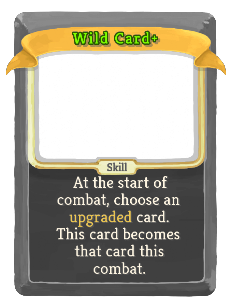
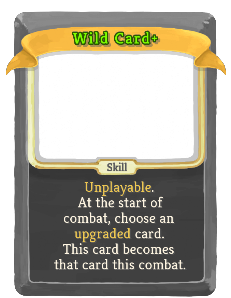
wiaojdoifjd

Changed region(s): [[0.2121, 0.5738, 0.8182, 0.9362]]

diff --git a/vexMod/index.html b/vexMod/index.html
@@ -864,7 +864,9 @@ Damage cycles from 0 to 50 quickly (slowly).</td>
     <td>Rare</td>
     <td>Skill</td>
     <td></td>
-    <td>At the start of combat, choose a (an upgraded) card. This card becomes that card this combat.</td>
+    <td>Unplayable.
+At the start of combat, choose a (an upgraded) card.
+This card becomes that card this combat.</td>
   </tr>
   
   <tr>
@@ -1947,15 +1949,6 @@ Whenever you play a card, put it on the bottom of your draw pile.</td>
     <td></td>
     <td>Whenever you add an unupgraded card to your deck, <span class="color-y">Upgrade</span> it and lose <span class="color-b">2</span> Max HP.</td>
     <td>Sand drains from it endlessly.</td>
-  </tr>
-  
-  <tr>
-    <td><a href="relics/popup/ChompingNoodles.png">Chomping Noodles</a></td>
-    <td><img src="relics/ChompingNoodles.png" width="128" height="128"><a href="relics/popup/ChompingNoodles.png"><img src="relics/small-popup/ChompingNoodles.png" class="popup"></a></td>
-    <td>Shop</td>
-    <td></td>
-    <td>Whenever you enter a <span class="color-y">?</span> room, raise your Max HP by <span class="color-b">3</span> and lose <span class="color-b">3</span> HP.</td>
-    <td>These noodles bite back.</td>
   </tr>
   
   <tr>

diff --git a/vexMod/relics.html b/vexMod/relics.html
@@ -1009,15 +1009,6 @@ Whenever you play a card, put it on the bottom of your draw pile.</td>
   </tr>
   
   <tr>
-    <td><a href="relics/popup/ChompingNoodles.png">Chomping Noodles</a></td>
-    <td><img src="relics/ChompingNoodles.png" width="128" height="128"><a href="relics/popup/ChompingNoodles.png"><img src="relics/small-popup/ChompingNoodles.png" class="popup"></a></td>
-    <td>Shop</td>
-    <td></td>
-    <td>Whenever you enter a <span class="color-y">?</span> room, raise your Max HP by <span class="color-b">3</span> and lose <span class="color-b">3</span> HP.</td>
-    <td>These noodles bite back.</td>
-  </tr>
-  
-  <tr>
     <td><a href="relics/popup/Cooldron.png">Cooldron</a></td>
     <td><img src="relics/Cooldron.png" width="128" height="128"><a href="relics/popup/Cooldron.png"><img src="relics/small-popup/Cooldron.png" class="popup"></a></td>
     <td>Shop</td>

diff --git a/vexMod/cards.html b/vexMod/cards.html
@@ -863,7 +863,9 @@ Damage cycles from 0 to 50 quickly (slowly).</td>
     <td>Rare</td>
     <td>Skill</td>
     <td></td>
-    <td>At the start of combat, choose a (an upgraded) card. This card becomes that card this combat.</td>
+    <td>Unplayable.
+At the start of combat, choose a (an upgraded) card.
+This card becomes that card this combat.</td>
   </tr>
   
   <tr>

diff --git a/vexMod/index.md b/vexMod/index.md
@@ -76,7 +76,7 @@
 | Spire Strike | ![](small-card-images/SpireStrike.png) | ![](small-card-images/SpireStrikePlus.png) | Rare | Attack | 0 | Costs 1 more for each Act cleared. Deal damage equal to your floor number. Exhaust. (not Exhaust.) |
 | Very Week Card | ![](small-card-images/VeryWeekCard.png) | ![](small-card-images/VeryWeekCardPlus.png) | Rare | Skill | 1 | Effect varies based on day of the week. Exhaust. (not Exhaust.) |
 | Well-Timed Strike | ![](small-card-images/Well-TimedStrike.png) | ![](small-card-images/Well-TimedStrikePlus.png) | Rare | Attack | 3 | Deal 0 damage. Damage cycles from 0 to 50 quickly (slowly). |
-| Wild Card | ![](small-card-images/WildCard.png) | ![](small-card-images/WildCardPlus.png) | Rare | Skill |  | At the start of combat, choose a (an upgraded) card. This card becomes that card this combat. |
+| Wild Card | ![](small-card-images/WildCard.png) | ![](small-card-images/WildCardPlus.png) | Rare | Skill |  | Unplayable. At the start of combat, choose a (an upgraded) card. This card becomes that card this combat. |
 | Fear | ![](small-card-images/Fear.png) | ![]() | Curse | Curse | 1 | Ethereal. At the end of your turn, gain 1 Vulnerable. |
 | Gorgon's Gaze | ![](small-card-images/GorgonsGaze.png) | ![]() | Curse | Curse |  | Unplayable. At the end of your turn, Exhaust all other cards in your hand. |
 | Greed | ![](small-card-images/Greed.png) | ![]() | Curse | Curse |  | Unplayable. At the end of your turn, lose 6 Gold. |
@@ -216,7 +216,6 @@
 | ![](relics/TreasureMap.png) | Adventure Map | Shop |  | ALL #y? rooms contain events. | The real treasure was the friends we made along the way. |
 | ![](relics/BerrySword.png) | Berry Sword | Shop |  | Upon pickup, raise your Max HP by #b8. The first card you play each combat is removed from your deck. | Tiny bites of this sword invigorate you. |
 | ![](relics/BrokenBowl.png) | Broken Bowl | Shop |  | Whenever you add an unupgraded card to your deck, #yUpgrade it and lose #b2 Max HP. | Sand drains from it endlessly. |
-| ![](relics/ChompingNoodles.png) | Chomping Noodles | Shop |  | Whenever you enter a #y? room, raise your Max HP by #b3 and lose #b3 HP. | These noodles bite back. |
 | ![](relics/Cooldron.png) | Cooldron | Shop |  | All Potions you find are Entropic Brews. | This cauldron is a lot cooler than any regular old cauldron. |
 | ![](relics/FutureThief.png) | Future Thief Glove | Shop |  | #pRight #pclick: Steal a card from yourself in the future. | Self-destructive thievery. |
 | ![](relics/GhostlyGear.png) | Ghostly Gear | Shop |  | Whenever you play a πStrike or Defend, #yExhaust it. | The sword and shield are more difficult to see each time you look. |

diff --git a/vexMod/cards.md b/vexMod/cards.md
@@ -73,7 +73,7 @@
 | Spire Strike | ![](small-card-images/SpireStrike.png) | ![](small-card-images/SpireStrikePlus.png) | Rare | Attack | 0 | Costs 1 more for each Act cleared. Deal damage equal to your floor number. Exhaust. (not Exhaust.) |
 | Very Week Card | ![](small-card-images/VeryWeekCard.png) | ![](small-card-images/VeryWeekCardPlus.png) | Rare | Skill | 1 | Effect varies based on day of the week. Exhaust. (not Exhaust.) |
 | Well-Timed Strike | ![](small-card-images/Well-TimedStrike.png) | ![](small-card-images/Well-TimedStrikePlus.png) | Rare | Attack | 3 | Deal 0 damage. Damage cycles from 0 to 50 quickly (slowly). |
-| Wild Card | ![](small-card-images/WildCard.png) | ![](small-card-images/WildCardPlus.png) | Rare | Skill |  | At the start of combat, choose a (an upgraded) card. This card becomes that card this combat. |
+| Wild Card | ![](small-card-images/WildCard.png) | ![](small-card-images/WildCardPlus.png) | Rare | Skill |  | Unplayable. At the start of combat, choose a (an upgraded) card. This card becomes that card this combat. |
 | Fear | ![](small-card-images/Fear.png) | ![]() | Curse | Curse | 1 | Ethereal. At the end of your turn, gain 1 Vulnerable. |
 | Gorgon's Gaze | ![](small-card-images/GorgonsGaze.png) | ![]() | Curse | Curse |  | Unplayable. At the end of your turn, Exhaust all other cards in your hand. |
 | Greed | ![](small-card-images/Greed.png) | ![]() | Curse | Curse |  | Unplayable. At the end of your turn, lose 6 Gold. |

diff --git a/vexMod/relics.md b/vexMod/relics.md
@@ -109,7 +109,6 @@
 | ![](relics/TreasureMap.png) | Adventure Map | Shop |  | ALL #y? rooms contain events. | The real treasure was the friends we made along the way. |
 | ![](relics/BerrySword.png) | Berry Sword | Shop |  | Upon pickup, raise your Max HP by #b8. The first card you play each combat is removed from your deck. | Tiny bites of this sword invigorate you. |
 | ![](relics/BrokenBowl.png) | Broken Bowl | Shop |  | Whenever you add an unupgraded card to your deck, #yUpgrade it and lose #b2 Max HP. | Sand drains from it endlessly. |
-| ![](relics/ChompingNoodles.png) | Chomping Noodles | Shop |  | Whenever you enter a #y? room, raise your Max HP by #b3 and lose #b3 HP. | These noodles bite back. |
 | ![](relics/Cooldron.png) | Cooldron | Shop |  | All Potions you find are Entropic Brews. | This cauldron is a lot cooler than any regular old cauldron. |
 | ![](relics/FutureThief.png) | Future Thief Glove | Shop |  | #pRight #pclick: Steal a card from yourself in the future. | Self-destructive thievery. |
 | ![](relics/GhostlyGear.png) | Ghostly Gear | Shop |  | Whenever you play a πStrike or Defend, #yExhaust it. | The sword and shield are more difficult to see each time you look. |
